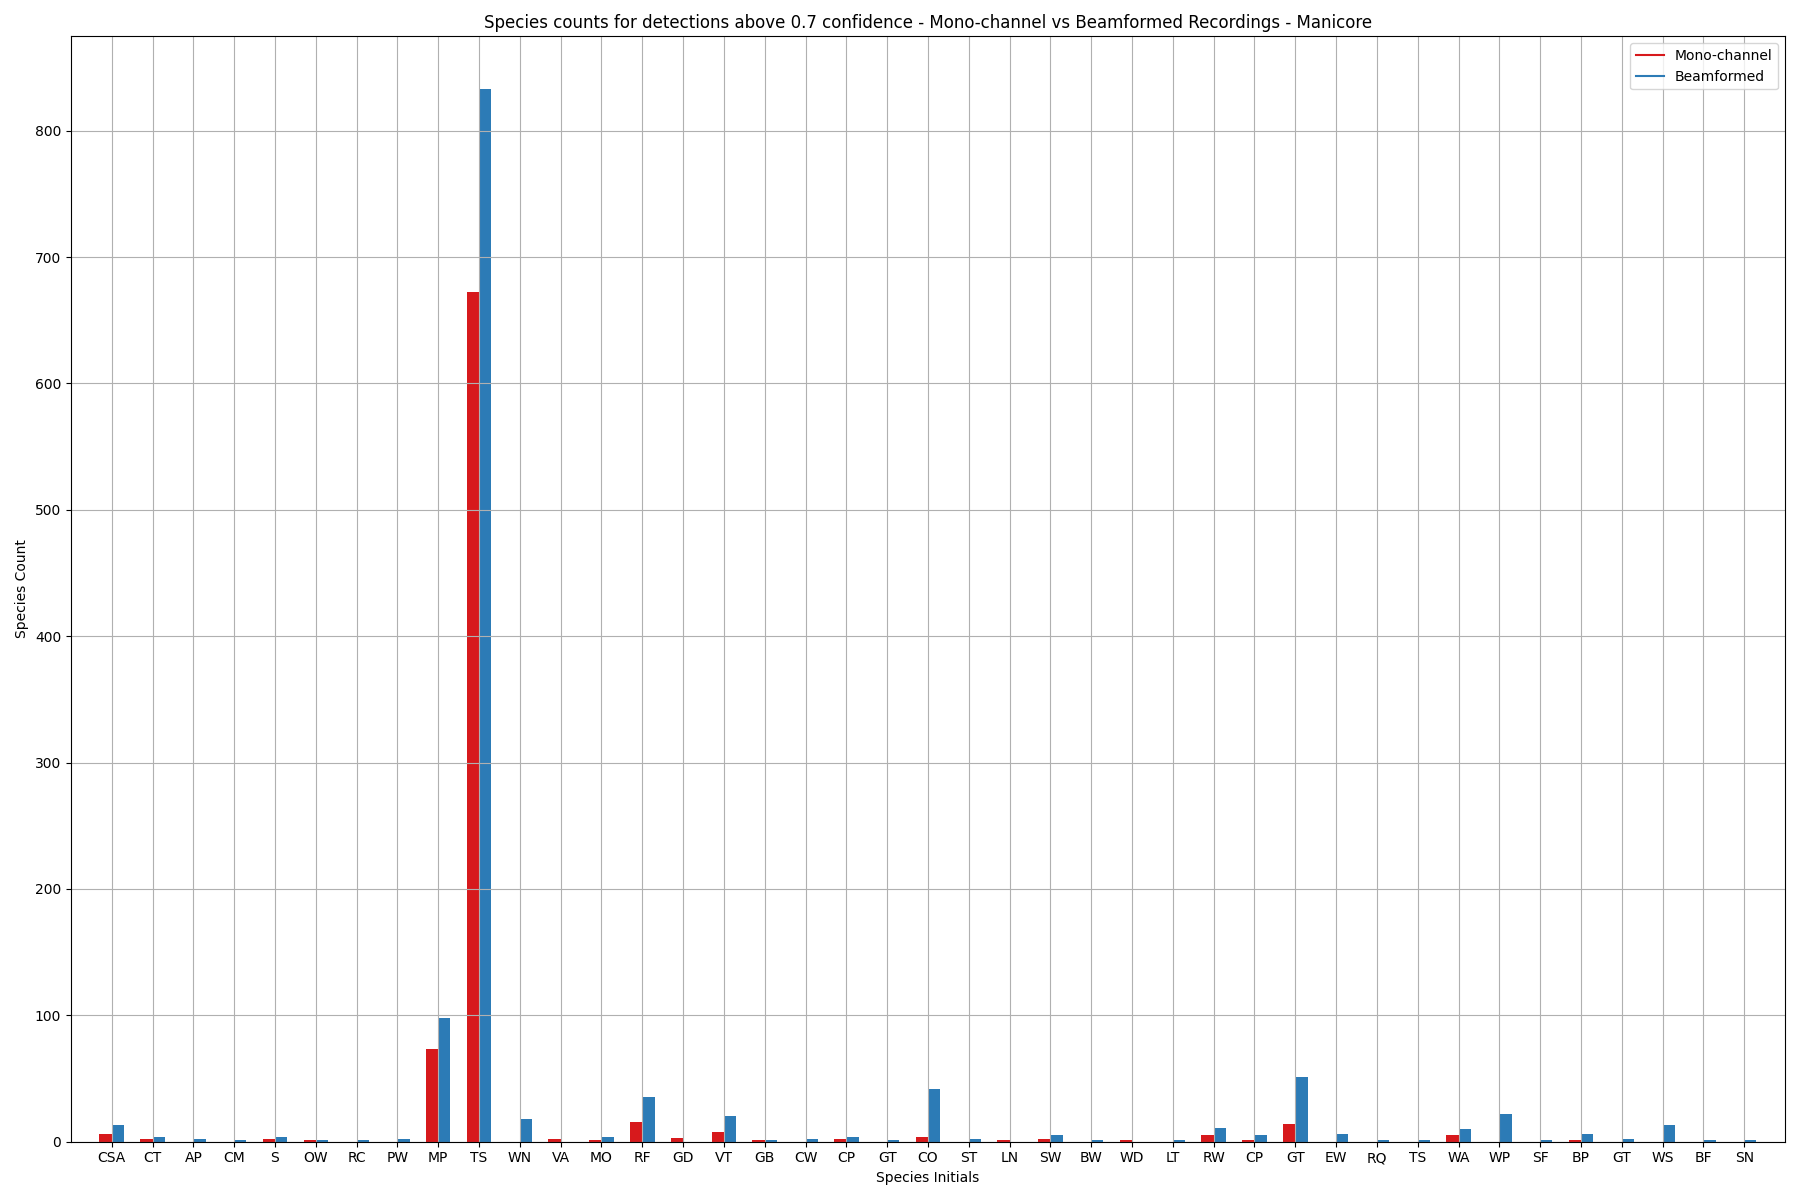
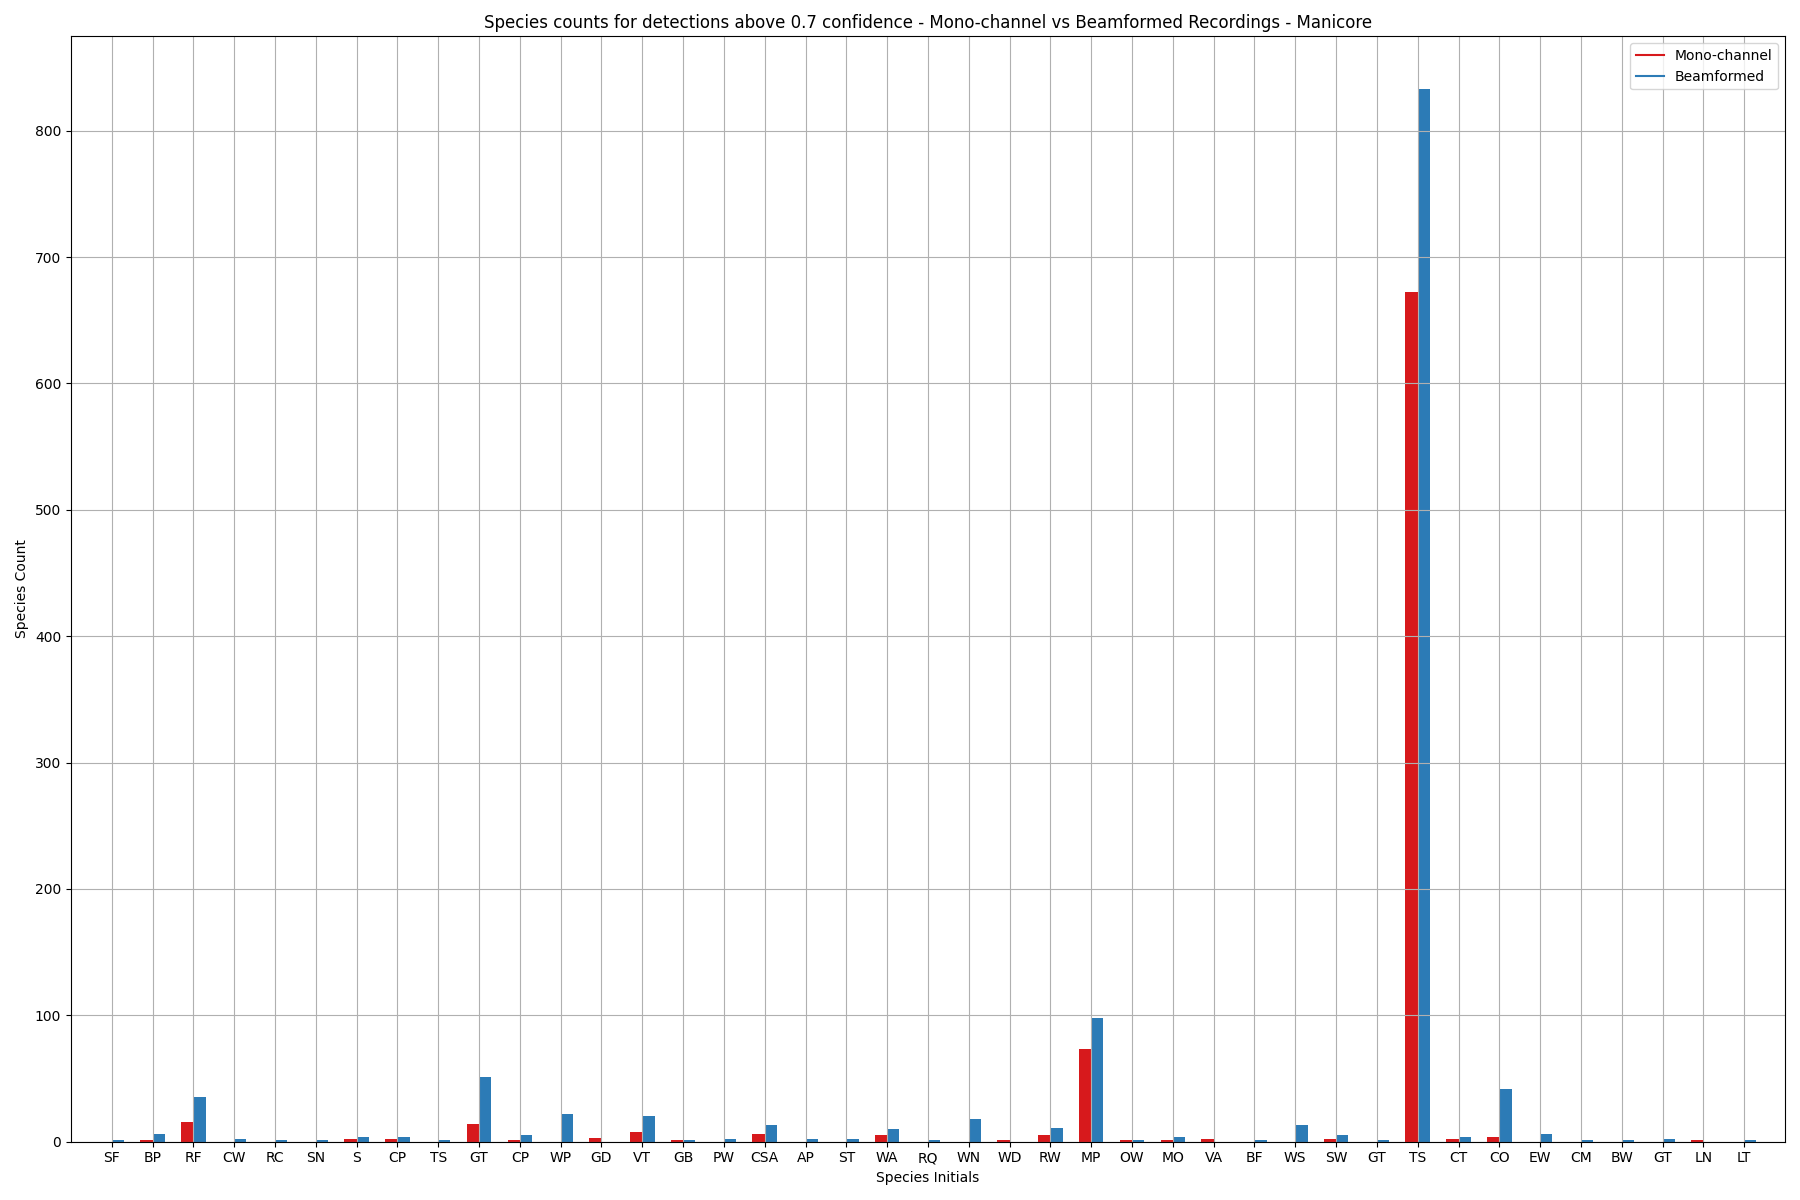
Histogram plots in red for mono data

diff --git a/src/analysis_scripts/compare_birdnet_results.py b/src/analysis_scripts/compare_birdnet_results.py
@@ -263,7 +263,7 @@ def setup_new_plot(xlabel, ylabel, title):
     plt.grid(True)
 
 
-def draw_histograms(hist_data, species_names, n_rows, n_cols, title, file_path):
+def draw_histograms(hist_data, species_names, n_rows, n_cols, title, file_path, colour):
     """Draws several histograms in a single plot
     --> Organised in a grid of n_rows x n_cols"""
 
@@ -272,7 +272,7 @@ def draw_histograms(hist_data, species_names, n_rows, n_cols, title, file_path):
 
     for i, name in enumerate(species_names):
         ax=fig.add_subplot(n_rows,n_cols,i+1)
-        ax.hist(hist_data[i], bins=20)
+        ax.hist(hist_data[i], bins=20, color=colour)
 
         ax.set_ylabel("Frequency")
         ax.set_xlabel("Confidence")
@@ -315,8 +315,8 @@ def plot_confidence_histograms(mono_data, bf_data, mono_file_path, bf_file_path)
         mono_title = f"Distributions of confidence levels, per species - Mono-channel - {LOCATION}"
         bf_title = f"Distributions of confidence levels, per species - Beamformed - {LOCATION}"
 
-        draw_histograms(hist_conf_data_mono, hist_labels, num_rows, num_cols, mono_title, mono_file_path)
-        draw_histograms(hist_conf_data_bf, hist_labels, num_rows, num_cols, bf_title, bf_file_path)
+        draw_histograms(hist_conf_data_mono, hist_labels, num_rows, num_cols, mono_title, mono_file_path, '#D7191C')
+        draw_histograms(hist_conf_data_bf, hist_labels, num_rows, num_cols, bf_title, bf_file_path, '#2C7BB6')
     else:
         print("No histogram data to plot!")
 
@@ -429,7 +429,7 @@ processed_results = {"mono_channel": {},
 # New dict to compare species count, above a min conf level - detections in either mono or beamformed
 species_counts = {"mono_channel": {},
                  "beamformed": {}}
-CONF_MIN = 0.4          # Specify threshold confidence level
+CONF_MIN = 0.7          # Specify threshold confidence level
 
 # Analyse all results files in the directory
 for root, dirs, files in os.walk(DIR_PATH, topdown=False):
